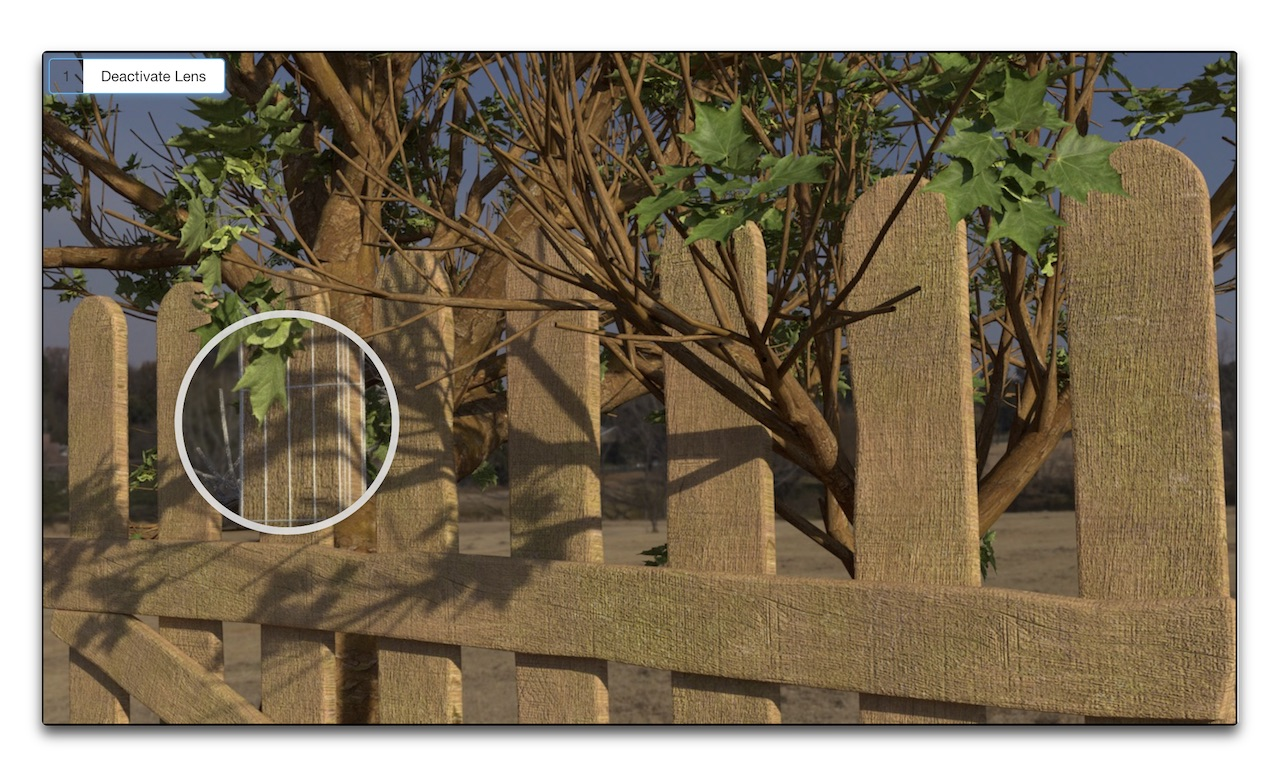
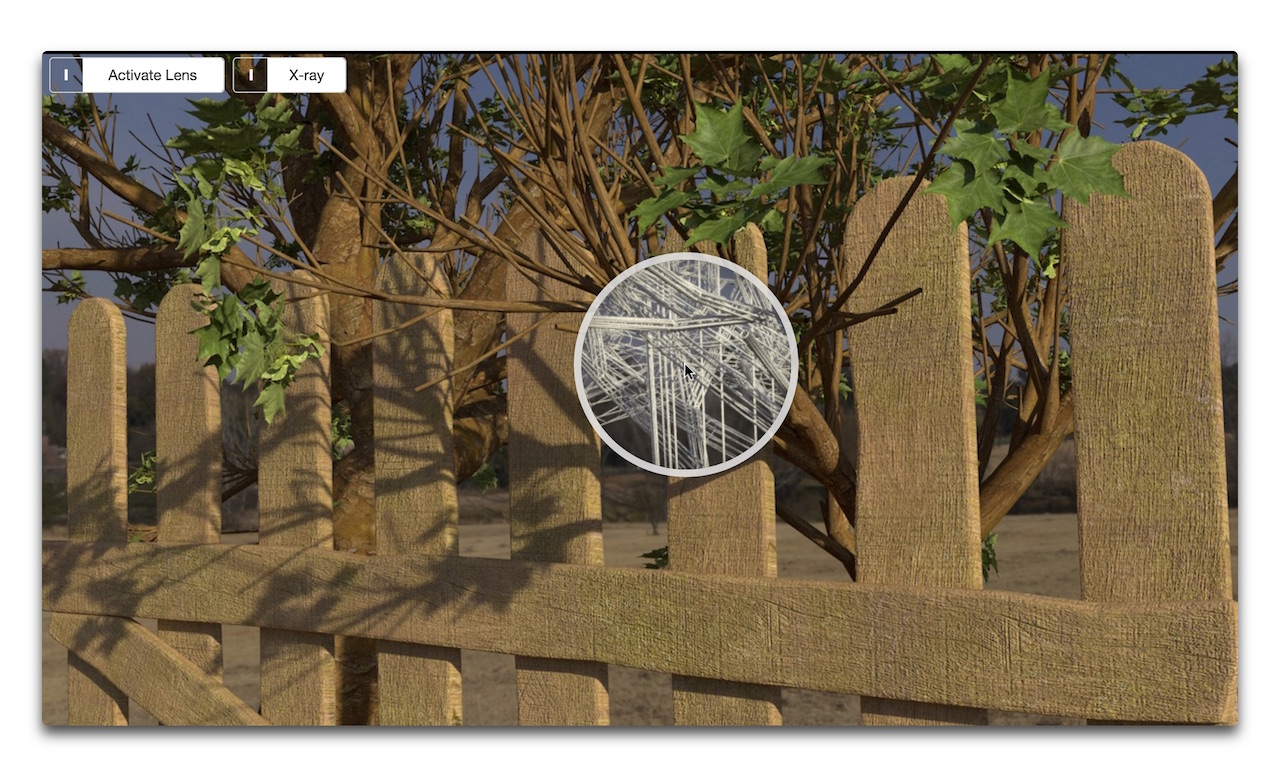
X-ray option added.

Changed region(s): [[0.0312, 0.0619, 0.9688, 0.9588], [0.0312, 0.5258, 0.0625, 0.5876], [0.0312, 0.6804, 0.0625, 0.7113]]

diff --git a/js/wire.js b/js/wire.js
@@ -1,17 +1,62 @@
+// August 2016, Martin Simoneau
+
 jQuery(document).ready(function() {
-   var $zoom;
-   $('input[name="toggle-wireframe"]').on('switchChange.bootstrapSwitch', function(event, state) {
+   var xrayFile = 'images/fence-wireframe-xray.jpg',
+       wireTextureFile = 'images/fence-wireframe.jpg',
+       // jQuery Objects
+       $zoom,
+       $xrayImage = $("<img>"),
+       $xraySwitchContainer = $('.control-x-ray'),
+       $xraySwitch = $("input[name='toggle-x-ray']"),
+       $xrayContainer = $('#x-ray-id');
+       $activationSwitchContainer= $('.control-activation'),
+       $activationSwitch = $("[name='toggle-wireframe']"),
+       $activationSwitchText = $('.control-activation input .bootstrap-switch-label');
+
+   // Init Switches control
+   $activationSwitch.bootstrapSwitch();
+   $xraySwitch.bootstrapSwitch();
+
+   // Get the x-ray image
+   $xrayImage.load(function(){
+      $xrayImage.attr('data-magnify-src', $(this).attr('src'));
+      $xrayImage.attr('data-loaded', true);
+   });
+   $xrayImage.attr("src", xrayFile);
+
+   // X-ray control
+   $xraySwitch.on('switchChange.bootstrapSwitch', function(event, state) {
+      if (state){
+         $xrayContainer.attr('data-magnify-src', xrayFile);
+         $zoom = $('.zoom').magnify();
+      }else{
+         $xrayContainer.attr('data-magnify-src', wireTextureFile);
+         $zoom = $('.zoom').magnify();
+      }
+   });
+
+   // Activation control
+   $activationSwitch.on('switchChange.bootstrapSwitch', function(event, state) {
      if (state){
+        if ($xrayImage.attr('data-loaded')){
+           $xraySwitchContainer.css('visibility', 'visible');
+        }
+        if ($xraySwitch.val() === 'on'){
+            $xrayContainer.attr('data-magnify-src', xrayFile);
+        }else{
+            $xrayContainer.attr('data-magnify-src', wireTextureFile);
+        }
         $zoom = $('.zoom').magnify();
-        $('.bootstrap-switch-label').text('Deactivate Lens');
+        $activationSwitchText.text('Deactivate Lens');
      }else{
-        $('.bootstrap-switch-label').text('Activate Lens');
+         $activationSwitchText.text('Activate Lens');
          $zoom.destroy();
+         $xraySwitchContainer.css('visibility', 'hidden');
      }
   });
+
 });
 
 jQuery(window).load(function() {
-   $('.control').show(600);
-   $("[name='toggle-wireframe']").bootstrapSwitch();
+   $activationSwitchContainer.css('visibility','visible');
 });

diff --git a/index.html b/index.html
@@ -51,7 +51,7 @@
          <!-- Content -->
          <div>
             <div class="control-container">
-               <div class="control">
+               <div class="control-activation">
                   <input data-label-width="110"
                          data-animate="false"
                          data-label-text="Activate Lens"
@@ -60,10 +60,20 @@
                          data-on-color="#505E7D"
                          data-on-text="I"
                          data-off-text="0">
+                  <span class="control-x-ray">
+                     <input data-label-width="50"
+                            data-animate="false"
+                            data-label-text="X-ray"
+                            type="checkbox"
+                            name="toggle-x-ray"
+                            data-on-color="#505E7D"
+                            data-on-text="I"
+                            data-off-text="0">
+                  </span>
                </div>
-               <img src="images/fence-wireframe.jpg" width="0"><!-- Caching the wireframed image. -->
-               <img src="images/fence.jpg" class="zoom" data-magnify-src="images/fence-wireframe.jpg">
             </div>
+            <img src="images/fence-wireframe.jpg" width="0"><!-- Caching the wireframed image. -->
+            <img id="x-ray-id" src="images/fence.jpg" class="zoom" data-magnify-src="images/fence-wireframe.jpg">
          </div>
 
       </div>

diff --git a/css/wire.css b/css/wire.css
@@ -7,12 +7,16 @@
    width:100%;
    border:2px solid black;
 }
-.control {
-   display:none;
+.control-activation, .control-x-ray {
+   visibility:hidden;
    position:absolute;
    top:5px;
    left:5px;
    z-index:200;
+}
+.control-x-ray {
+   position:relative;
+   top:0;
 }
 .zoom {
    width:100%;
